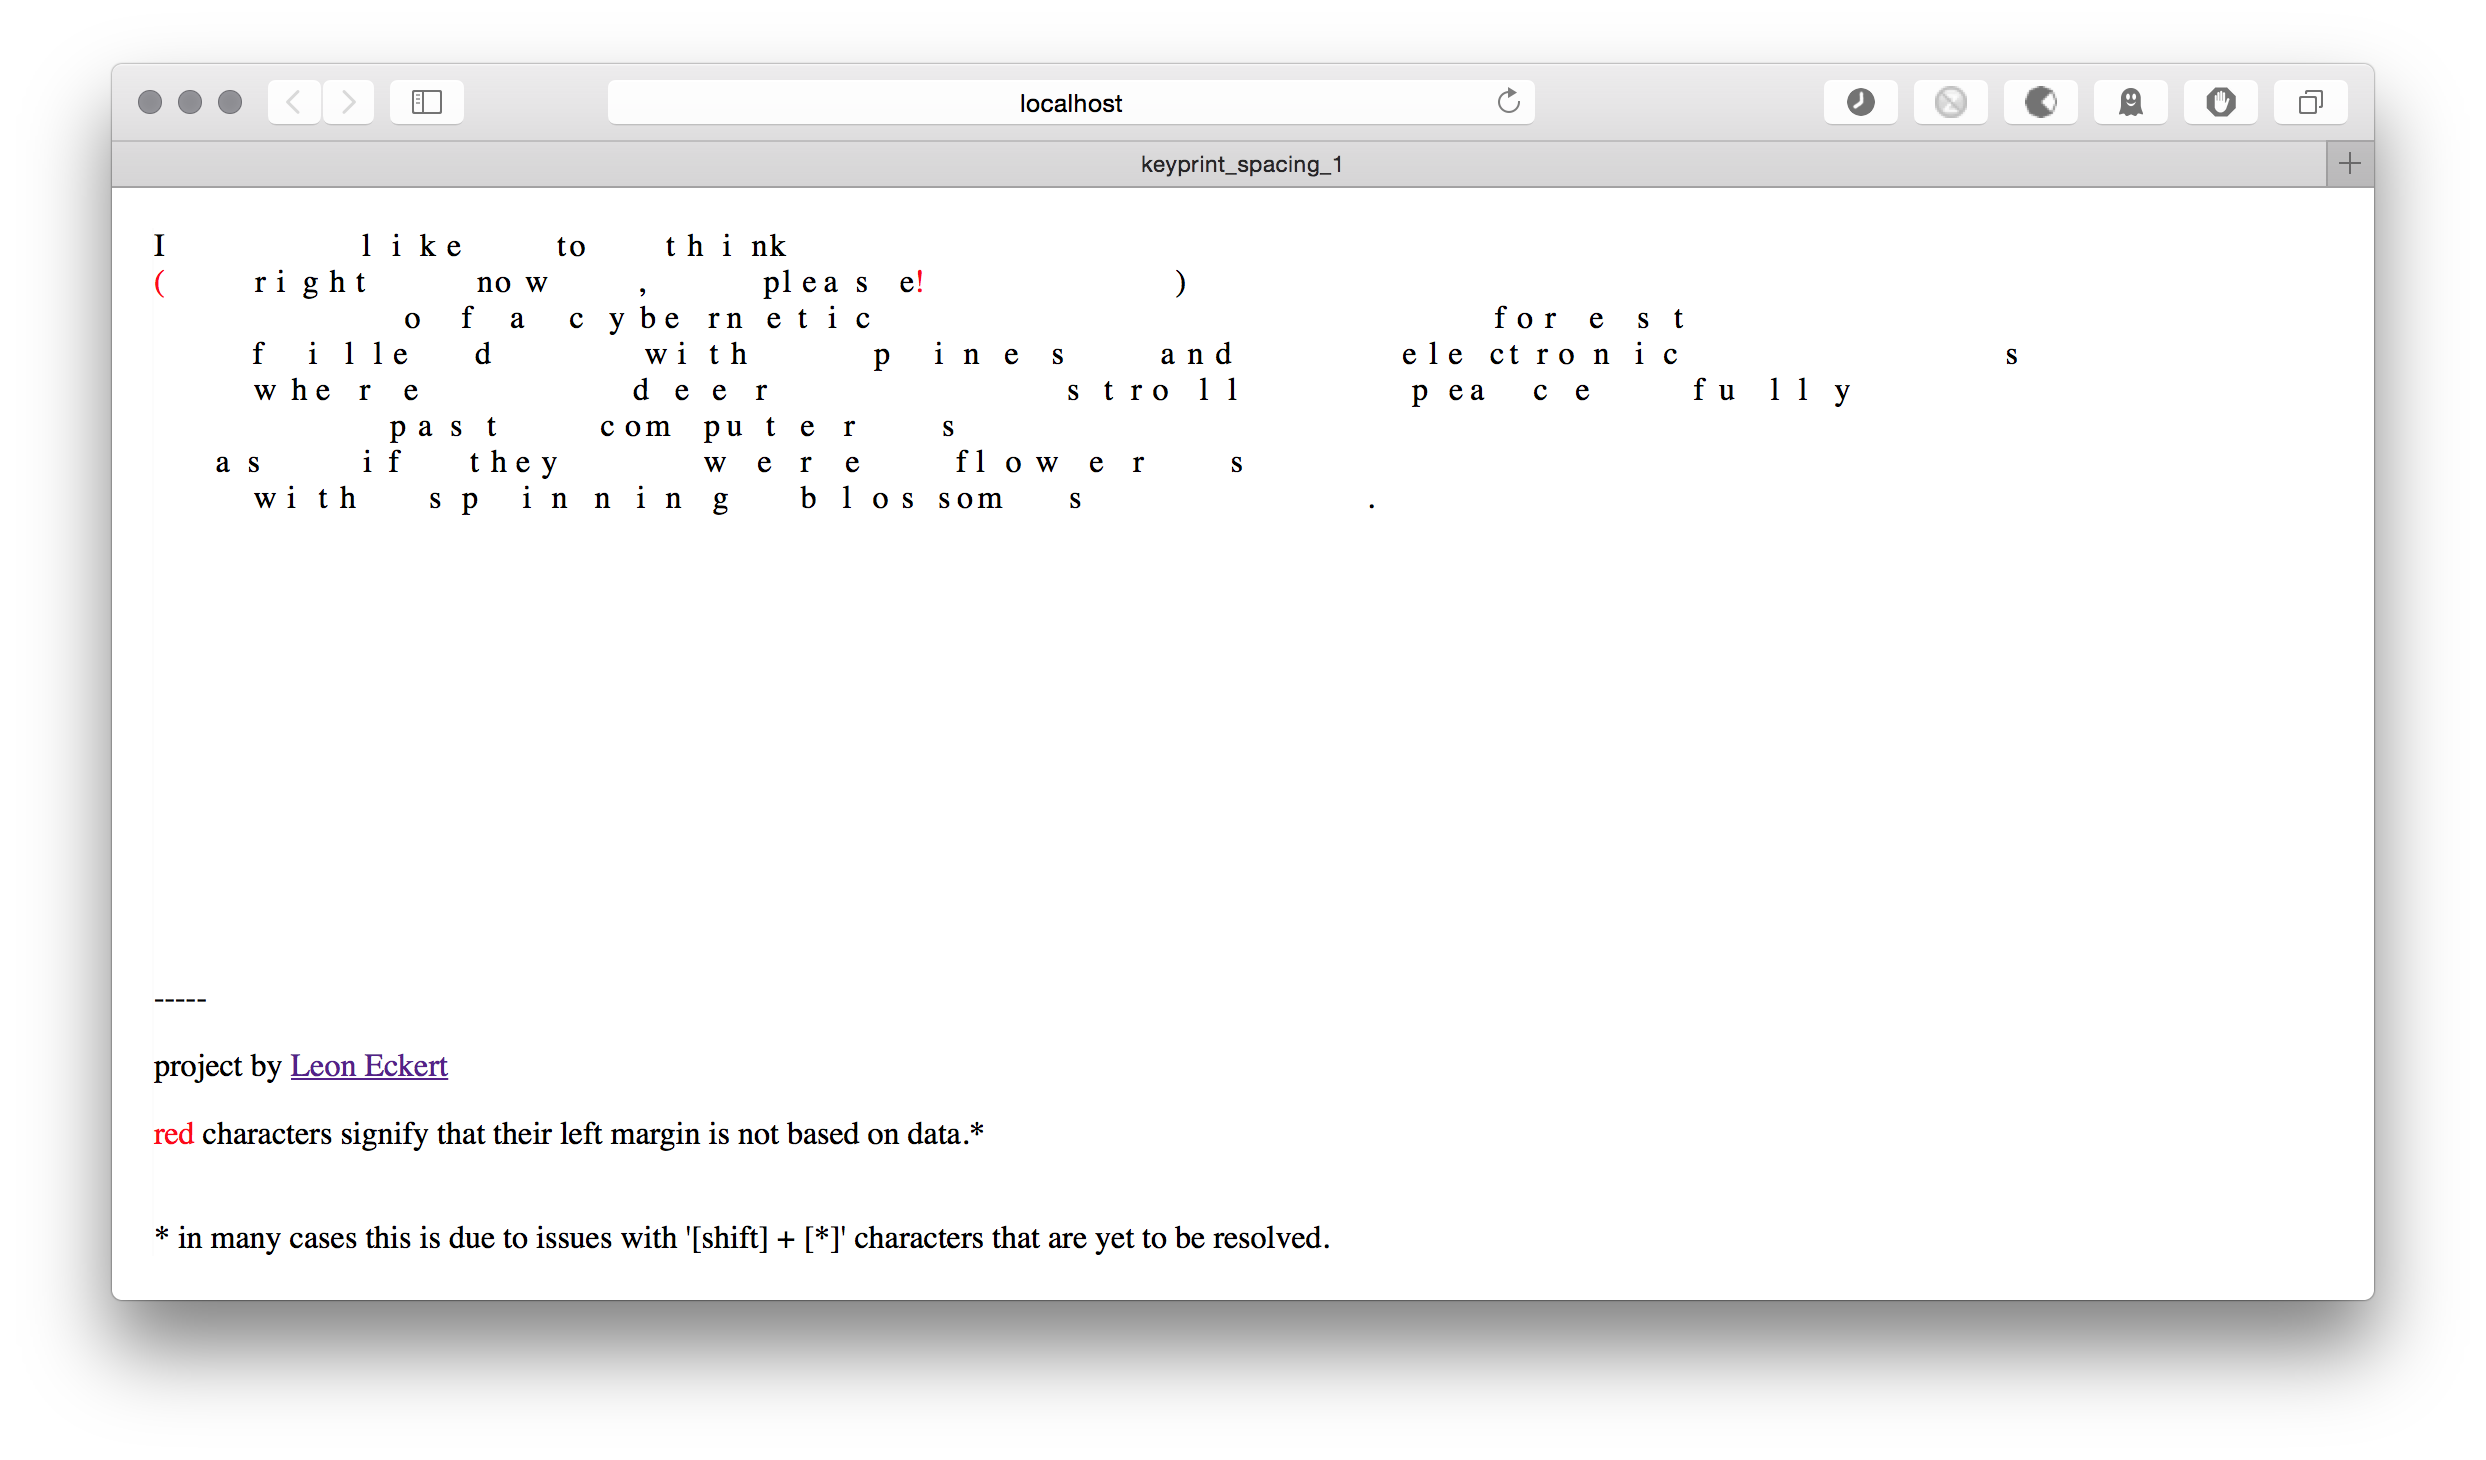
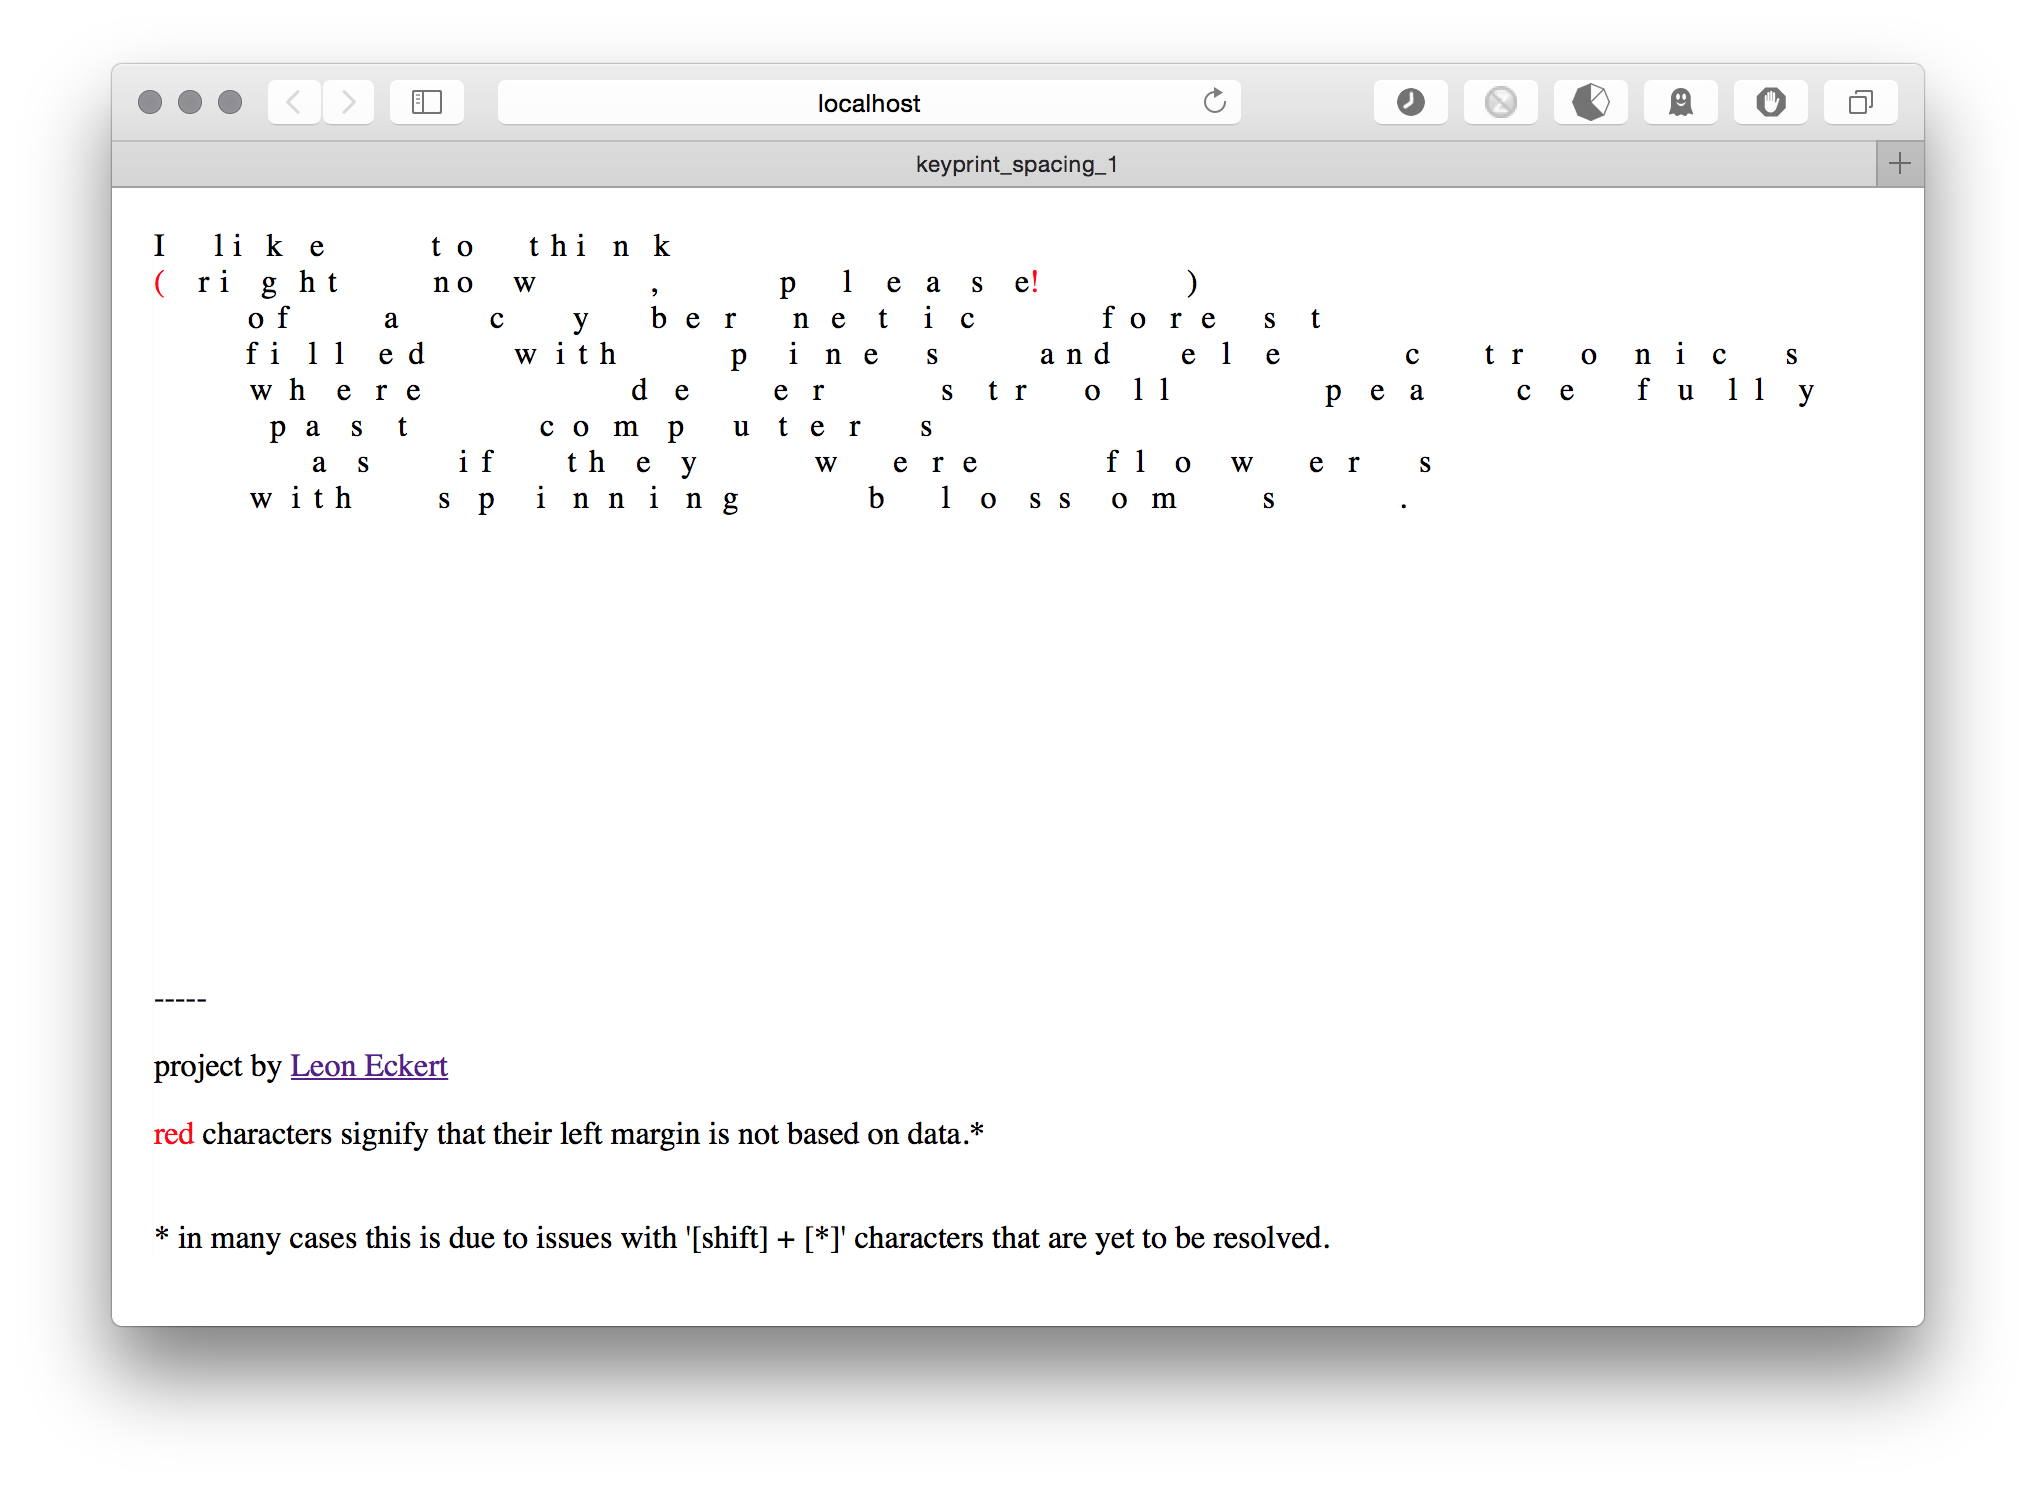
updated readme

diff --git a/sketch.js b/sketch.js
@@ -6,8 +6,8 @@ var keyCodeArray = [];
 
 var distortian_factor = 100; //in pixel
 
-// var keyprint = "/keyprint_data/JSONs/Joao.json";
-var keyprint = "/keyprint_data/test.json";
+var keyprint = "/keyprint_data/JSONs/Yuchi.json";
+// var keyprint = "/keyprint_data/test.json";
 var input_text = "text.txt";
 
 function setup() {
